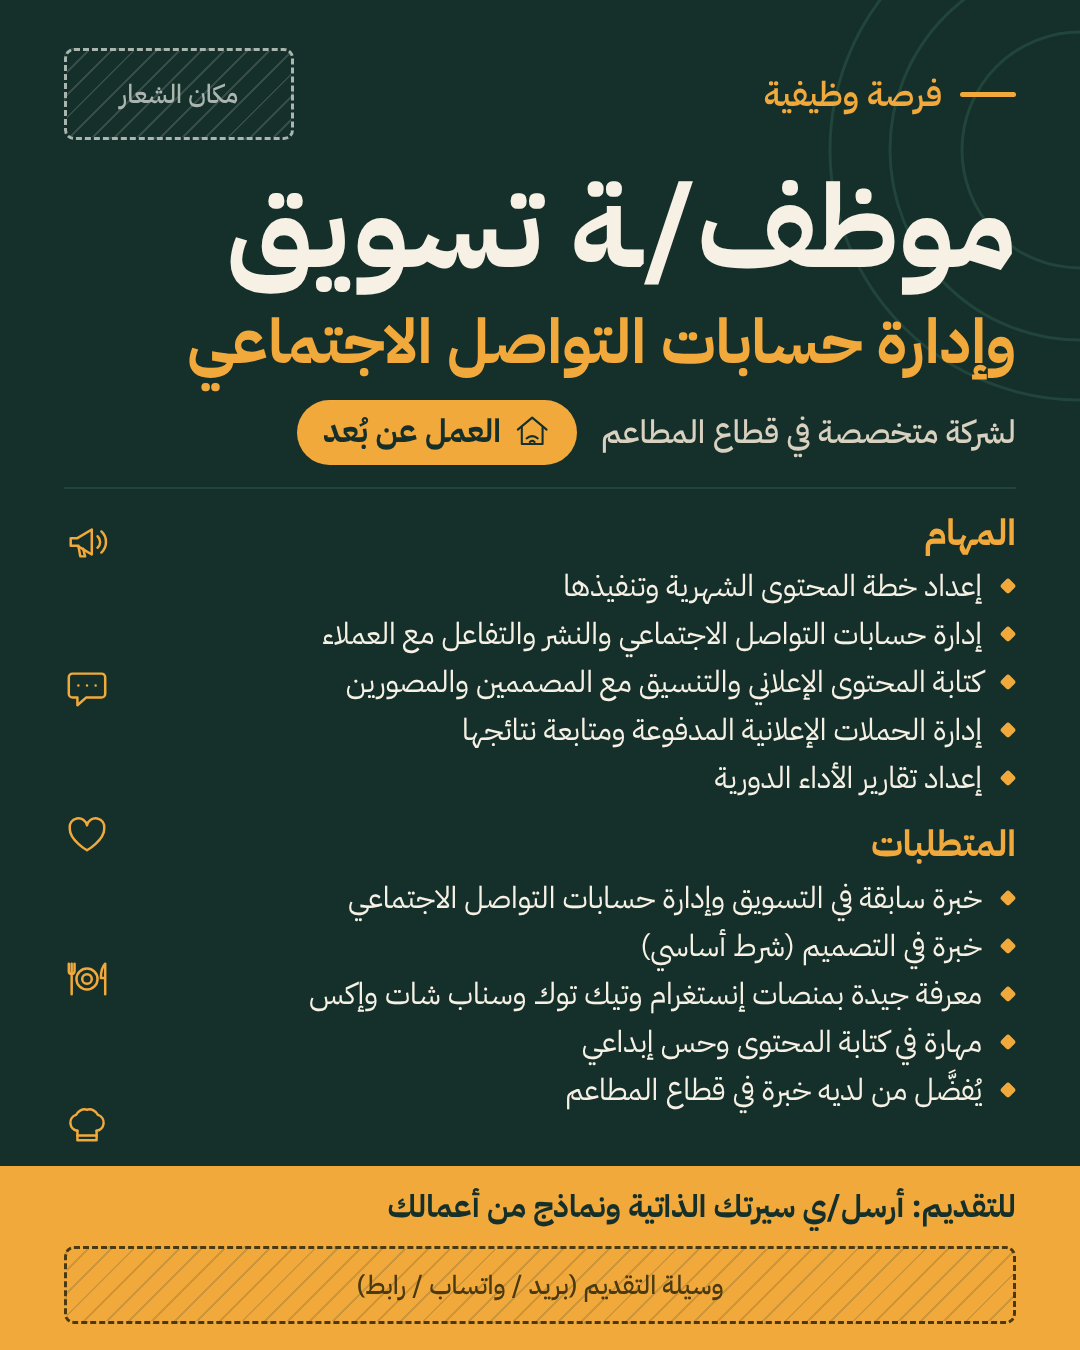
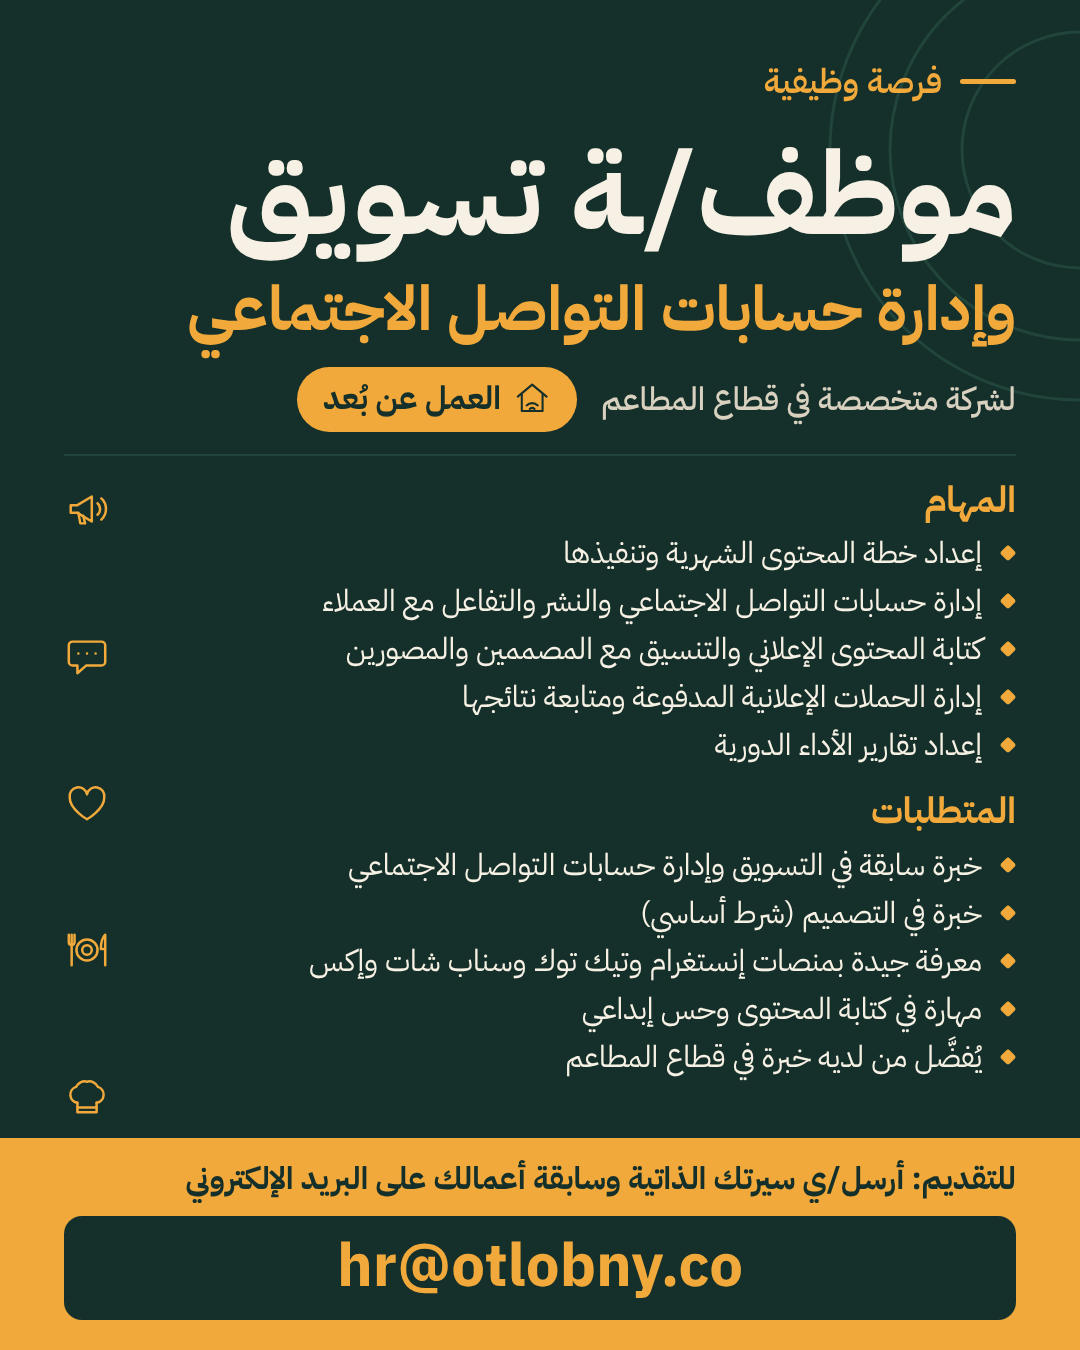
Job advert v01: unbranded post and story with apply email, pre-review
Claude-Session: https://claude.ai/code/session_01J1taWenrpGzurucxkZpGcC

diff --git a/clients/tbc-restaurants-company/05-designs/job-advert/job-advert.css b/clients/tbc-restaurants-company/05-designs/job-advert/job-advert.css
@@ -10,7 +10,6 @@
   --text-soft: #D8D1C0;     /* sector line */
   --accent: #F2A93B;        /* saffron: kicker, headline line 2, bullets, apply band */
   --on-accent: #15302A;     /* text on the accent colour */
-  --gap-ink: #A9B5AE;       /* muted ink for the unfinished markers on the ground */
 
   /* ---- type ---- */
   --font: "IBM Plex Sans Arabic", sans-serif;
@@ -25,13 +24,13 @@
 body.post {
   --w: 1080px; --h: 1350px;
   --margin: 64px;
-  --safe-top: 48px; --safe-bottom: 0px;
+  --safe-top: 56px; --safe-bottom: 0px;
   --kicker: 34px;
   --h1-a: 116px; --h1-b: 62px;
   --sector: 32px;
   --block-title: 36px;
   --body: 30px; --body-lh: 1.6;
-  --apply: 31px; --gap-label: 26px;
+  --apply: 31px; --email: 60px;
   --icon: 46px;
   --block-gap: 14px;
 }
@@ -44,7 +43,7 @@ body.story {
   --sector: 34px;
   --block-title: 40px;
   --body: 32px; --body-lh: 1.6;
-  --apply: 33px; --gap-label: 28px;
+  --apply: 30px; --email: 64px;
   --icon: 52px;
   --block-gap: 14px;
 }
@@ -77,16 +76,6 @@ body {
   font-size: var(--kicker); font-weight: 600; color: var(--accent); line-height: 1.5;
 }
 .kicker::before { content: ""; width: 56px; height: 5px; background: var(--accent); border-radius: 3px; }
-
-/* ---- GAP markers: deliberately unfinished (dashed, muted, hatched) ---- */
-.gap {
-  display: flex; align-items: center; justify-content: center; text-align: center;
-  border: 3px dashed currentColor; border-radius: 10px;
-  font-size: var(--gap-label); font-weight: 500; line-height: 1.5;
-  background-image: repeating-linear-gradient(135deg, transparent 0 14px, var(--hatch) 14px 16px);
-}
-.gap--logo { --hatch: rgba(169,181,174,.22); color: var(--gap-ink); width: 230px; height: 92px; }
-.gap--contact { --hatch: rgba(21,48,42,.16); color: #4A3A12; width: 100%; height: 78px; margin-top: 14px; }
 
 h1 { margin-top: 18px; font-weight: 700; }
 h1 .a { display: block; font-size: var(--h1-a); line-height: 1.22; color: var(--text); white-space: nowrap; }
@@ -128,10 +117,16 @@ h1 .b { display: block; font-size: var(--h1-b); line-height: 1.4; color: var(--a
 
 /* ---- apply band ---- */
 .apply { background: var(--accent); color: var(--on-accent); }
-.apply p { font-size: var(--apply); font-weight: 700; line-height: 1.6; }
-body.post .apply { margin: 0 calc(var(--margin) * -1); padding: 16px var(--margin) 26px; }
-body.story .apply { border-radius: 26px; padding: 18px 36px 28px; }
-body.story .gap--contact { height: 80px; }
+.apply p { font-size: var(--apply); font-weight: 700; line-height: 1.6; white-space: nowrap; }
+/* the call to action: email, LTR, accent on the ground colour */
+.email {
+  display: block; direction: ltr; unicode-bidi: isolate; text-align: center; white-space: nowrap;
+  margin-top: 12px; padding: 8px 24px 12px; border-radius: 18px;
+  background: var(--ground); color: var(--accent);
+  font-size: var(--email); font-weight: 700; line-height: 1.4;
+}
+body.post .apply { margin: 0 calc(var(--margin) * -1); padding: 16px var(--margin) 30px; }
+body.story .apply { border-radius: 26px; padding: 18px 36px 32px; }
 body.story .rule { margin-top: 22px; }
 body.story .lists { margin-top: 14px; }
 body.story h1 { margin-top: 16px; }

diff --git a/clients/tbc-restaurants-company/05-designs/job-advert/tbc-restaurants-company_job-advert_story_ar_v01.html b/clients/tbc-restaurants-company/05-designs/job-advert/tbc-restaurants-company_job-advert_story_ar_v01.html
@@ -2,7 +2,7 @@
 <html lang="ar" dir="rtl">
 <head>
 <meta charset="utf-8">
-<title>Job advert — story 1080x1920 — ar — v01 (DRAFT: logo and apply contact are open gaps)</title>
+<title>Job advert — story 1080x1920 — ar — v01</title>
 <meta name="viewport" content="width=1080">
 <link rel="stylesheet" href="job-advert.css">
 </head>
@@ -26,8 +26,6 @@
 <main class="sheet">
   <header class="top">
     <div class="kicker">فرصة وظيفية</div>
-    <!-- GAP 1: client logo not supplied -->
-    <div class="gap gap--logo">مكان الشعار</div>
   </header>
 
   <h1><span class="a">موظف/ـة تسويق</span> <span class="b">وإدارة حسابات التواصل الاجتماعي</span></h1>
@@ -70,9 +68,8 @@
   </section>
 
   <footer class="apply">
-    <p>للتقديم: أرسل/ي سيرتك الذاتية ونماذج من أعمالك</p>
-    <!-- GAP 2: how to apply not supplied -->
-    <div class="gap gap--contact">وسيلة التقديم (بريد / واتساب / رابط)</div>
+    <p>للتقديم: أرسل/ي سيرتك الذاتية وسابقة أعمالك على البريد الإلكتروني</p>
+    <bdi class="email" dir="ltr">hr@otlobny.co</bdi>
   </footer>
 </main>
 

diff --git a/clients/tbc-restaurants-company/05-designs/job-advert/tbc-restaurants-company_job-advert_post_ar_v01.html b/clients/tbc-restaurants-company/05-designs/job-advert/tbc-restaurants-company_job-advert_post_ar_v01.html
@@ -2,7 +2,7 @@
 <html lang="ar" dir="rtl">
 <head>
 <meta charset="utf-8">
-<title>Job advert — post 1080x1350 — ar — v01 (DRAFT: logo and apply contact are open gaps)</title>
+<title>Job advert — post 1080x1350 — ar — v01</title>
 <meta name="viewport" content="width=1080">
 <link rel="stylesheet" href="job-advert.css">
 </head>
@@ -26,8 +26,6 @@
 <main class="sheet">
   <header class="top">
     <div class="kicker">فرصة وظيفية</div>
-    <!-- GAP 1: client logo not supplied -->
-    <div class="gap gap--logo">مكان الشعار</div>
   </header>
 
   <h1><span class="a">موظف/ـة تسويق</span> <span class="b">وإدارة حسابات التواصل الاجتماعي</span></h1>
@@ -70,9 +68,8 @@
   </section>
 
   <footer class="apply">
-    <p>للتقديم: أرسل/ي سيرتك الذاتية ونماذج من أعمالك</p>
-    <!-- GAP 2: how to apply not supplied -->
-    <div class="gap gap--contact">وسيلة التقديم (بريد / واتساب / رابط)</div>
+    <p>للتقديم: أرسل/ي سيرتك الذاتية وسابقة أعمالك على البريد الإلكتروني</p>
+    <bdi class="email" dir="ltr">hr@otlobny.co</bdi>
   </footer>
 </main>
 

diff --git a/clients/tbc-restaurants-company/05-designs/job-advert/_work/finish.py b/clients/tbc-restaurants-company/05-designs/job-advert/_work/finish.py
@@ -33,8 +33,7 @@ pairs = [
     ("sector line             #D8D1C0 on #15302A", "#D8D1C0", "#15302A"),
     ("accent text (kicker, headline line 2, block titles) #F2A93B on #15302A", "#F2A93B", "#15302A"),
     ("apply line + tag        #15302A on #F2A93B", "#15302A", "#F2A93B"),
-    ("gap label (logo)        #A9B5AE on #15302A", "#A9B5AE", "#15302A"),
-    ("gap label (contact)     #4A3A12 on #F2A93B", "#4A3A12", "#F2A93B"),
+    ("email (call to action) #F2A93B on #15302A", "#F2A93B", "#15302A"),
 ]
 for label, a, b in pairs:
     print(f"{cr(a, b):5.2f}:1  {label}")

diff --git a/clients/tbc-restaurants-company/05-designs/job-advert/notes.md b/clients/tbc-restaurants-company/05-designs/job-advert/notes.md
@@ -1,6 +1,6 @@
-# Job advert — notes (v01, DRAFT, not postable)
+# Job advert — notes (v01)
 
-**Status:** draft with two open gaps. Do not publish until the logo and the apply contact are supplied.
+**Status:** finished unbranded advert, no placeholders. Awaiting quality review and client approval.
 
 ## Pieces
 | File | Size | Use |
@@ -12,17 +12,19 @@ Shared: `job-advert.css` (palette variables in the first `:root` block), `fonts/
 Rebuild: `NODE_PATH=/opt/node-tools/node_modules node _work/render.cjs && python3 _work/finish.py`.
 
 ## Copy
-Taken character for character from `01-brief/brief.md` (copy v01 plus the 2026-11-18 client additions: «خبرة في التصميم (شرط أساسي)» and the tag «العمل عن بُعد»). `_work/render.cjs` asserts every string and their order. Numerals: none appear; Western if added.
+Taken character for character from `01-brief/brief.md` (copy v01 plus the 2026-11-18 client additions: «خبرة في التصميم (شرط أساسي)», the tag «العمل عن بُعد», the apply sentence «للتقديم: أرسل/ي سيرتك الذاتية وسابقة أعمالك على البريد الإلكتروني» and the email `hr@otlobny.co`). `_work/render.cjs` asserts every string and their order. Numerals: none appear; Western if added.
 
-## Marked gaps (dashed, hatched, muted — deliberately unfinished)
-1. «مكان الشعار» — top-left box; client logo not supplied.
-2. «وسيلة التقديم (بريد / واتساب / رابط)» — field in the apply band; contact not supplied.
+## Unbranded by ruling
+No logo and no company name appear (Creative Director ruling in the brief). The email is set LTR (`<bdi dir="ltr">`, isolated, no wrap) as the call to action.
 
 ## Look (assumption — no brand supplied)
 Neutral restaurants-sector palette, to be replaced by the brand's:
-ground `#15302A`, ground tint `#21443B`, text `#F7F1E5`, soft text `#D8D1C0`, accent `#F2A93B`, gap ink `#A9B5AE` / `#4A3A12`.
-Type: IBM Plex Sans Arabic 400/500/600/700. No letter-spacing; body line-height 1.6; body 30 px (post), 32 px (story).
+ground `#15302A`, ground tint `#21443B`, text `#F7F1E5`, soft text `#D8D1C0`, accent `#F2A93B`.
+Type: IBM Plex Sans Arabic 400/500/600/700 (also used for the Latin email). No letter-spacing; body line-height 1.6; body 30 px (post), 32 px (story); email 60 / 64 px.
 Icons: six inline SVG line icons drawn for this piece (megaphone, chat, heart, plate and cutlery, chef hat, home/remote). No photos, stock or AI images.
 
+## History inside v01
+The first render carried two dashed gap markers (logo box, apply method). Both were removed the same day when the client supplied the email and the advert was ruled unbranded; that render was never shown to the client.
+
 ## Not done
-Native Arabic proofread by a second reader; on-device preview under the real Instagram story UI.
+Native Arabic proofread by a second reader; on-device preview under the real Instagram story UI; confirmation that the mailbox `hr@otlobny.co` exists and receives mail.
